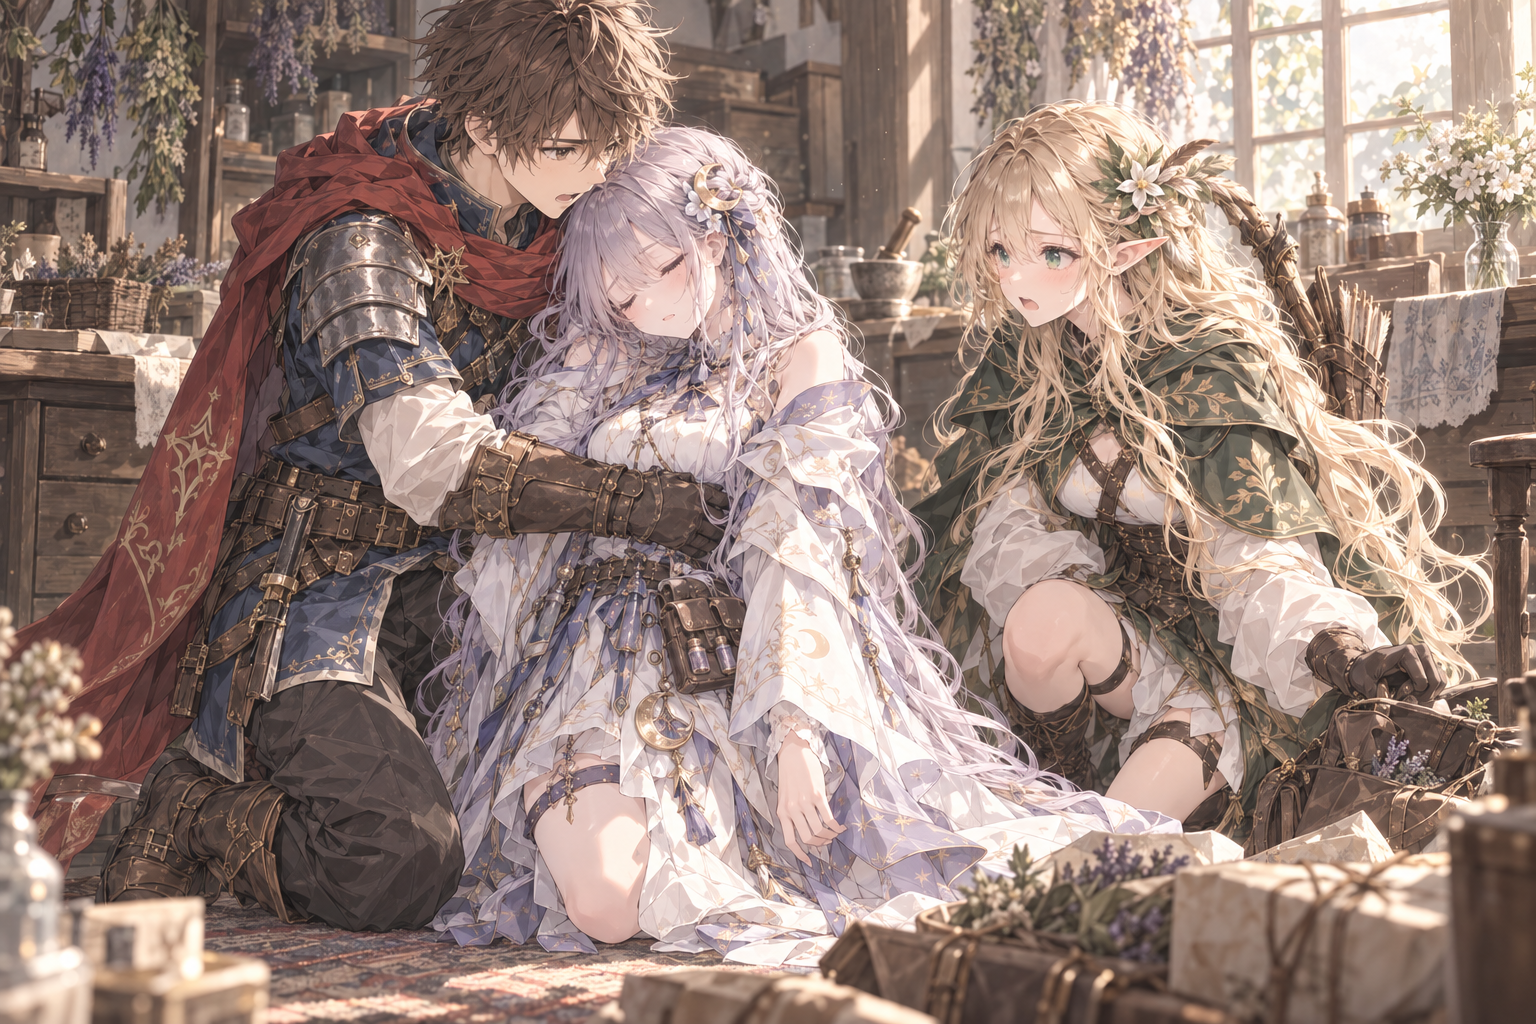
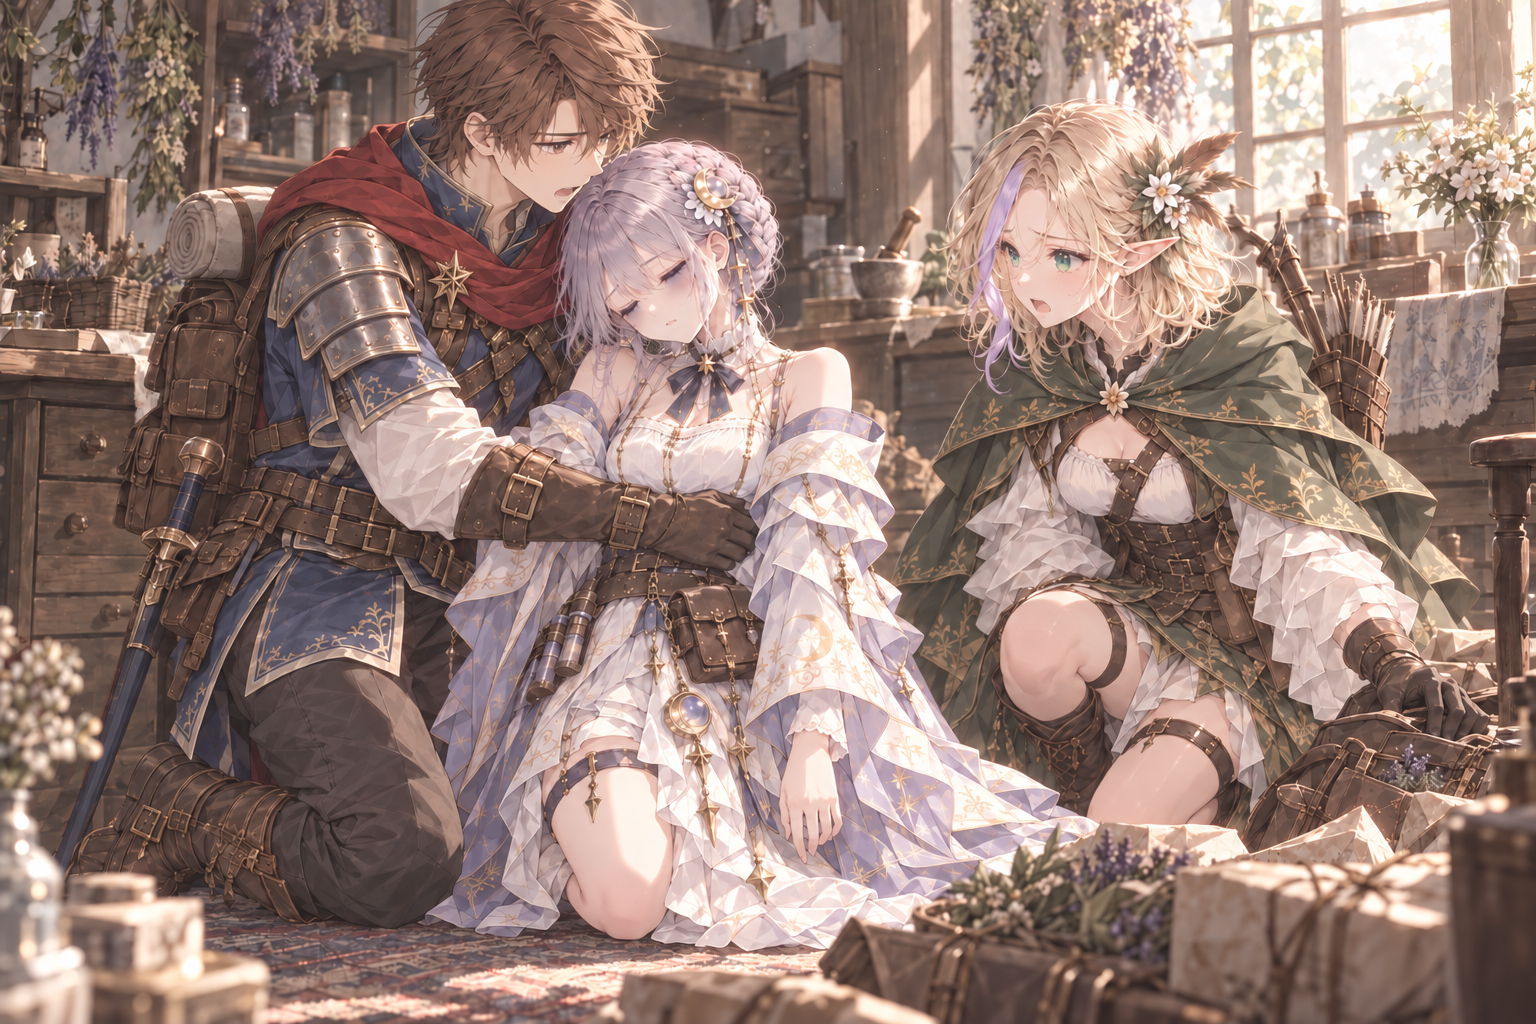
Refresh chapter 2-2 rescue still to latest character designs

diff --git a/docs/art/story-art.md b/docs/art/story-art.md
@@ -138,7 +138,9 @@
 - 表示：`moonlit-herbs-return` の第7行（0始まりで6）、ミラの膝が折れる行から。2-1のお昼には画像を置かない。
 - 画像確認：倒れたミラをレオンが支え、アリアが荷物をどけて近くへ寄る。三人の外見、支える動作、作りかけの薬のある仕事場を確認した。
 
-最終プロンプト：
+2026-10-05に三人の最新設定画へ合わせて描き直した。ミラは薄紫の編み込みのまとめ髪、血色の薄さと目元の疲労、軽いローブと治療用ポーチを反映する。アリアは肩〜鎖骨丈の金髪と正面から見て左側の薄紫の一房、レオンは短い片肩マントと背嚢を描く。倒れたミラを支える動作、仕事場と表示開始位置は維持する。[更新記録](../art-generation/mira-collapse-refresh-20261005.json)を参照。
+
+初版のプロンプト（更新前の制作履歴）：
 
 ```text
 Create one landscape 1536x1024 illustration-story still for STARLIT GUILD, using these three sheets ONLY as character appearance references, not layouts or text. Painterly anime fantasy RPG scene, delicate textured painting and soft afternoon window light, muted natural colors. Interior of a modest healer's workroom with wooden desk, paper-wrapped herbs and unfinished medicine parcels. Exact narrative instant: Mira (lavender hair, white/lavender moon-motif healer robes, herb pouch) has actually fainted from exhaustion while standing up; her knees have buckled, eyes closed and body limp, and Leon (brown hair, blue tunic, leather armor, red scarf) kneels urgently catching and supporting her upper torso and shoulders before she falls. Aria (long blonde hair, elf ears, green eyes, white flower hair ornament, forest green cloak) has rushed to their side and is crouching close, one hand moving a bag off the floor, looking anxiously at Mira and calling her name. All three fully clothed, non-romantic rescue scene, physically credible arms and weight support. Mira central; all faces and support gesture clearly readable in the middle portion of landscape. Background only herbs, parcels, wooden furniture, no extra people, no modern medical equipment, no glow magic, no blood, no comic panels, no letters or typography, no border. Retain distinctive reference costumes and faces.

diff --git a/docs/art/story-art-gallery.md b/docs/art/story-art-gallery.md
@@ -36,7 +36,7 @@
 
 ![倒れたミラをレオンが支え、アリアが駆け寄る](../../public/stories/mira-collapse.webp)
 
-`moonlit-herbs-return` の倒れる行から表示。制作条件は [スチル制作記録](story-art.md#第二章2-2ミラが倒れる) を参照。
+`moonlit-herbs-return` の倒れる行から表示。2026-10-05に最新設定画へ合わせ、ミラの薄紫のまとめ髪と疲れた顔、アリアの短い髪、レオンの短いマントを更新した。[更新記録](../art-generation/mira-collapse-refresh-20261005.json)と[スチル制作記録](story-art.md#第二章2-2ミラが倒れる)を参照。
 
 ### 2-6：もう一人の山賊
 

diff --git a/CHANGELOG.md b/CHANGELOG.md
@@ -10,7 +10,7 @@
 
 ## 0.5.x（第五章の開発）
 
-- 0.5.3: キャラ設定画・5人の顔アイコンと第一章スチルを更新する（#243）
+- 0.5.3: キャラ設定画・5人の顔アイコンと第一・第二章スチルを更新する（#243）
 
 - 0.5.2: スタート画面の塔の紫の灯りとリンデ周辺の地形を修正する（#238）
 
